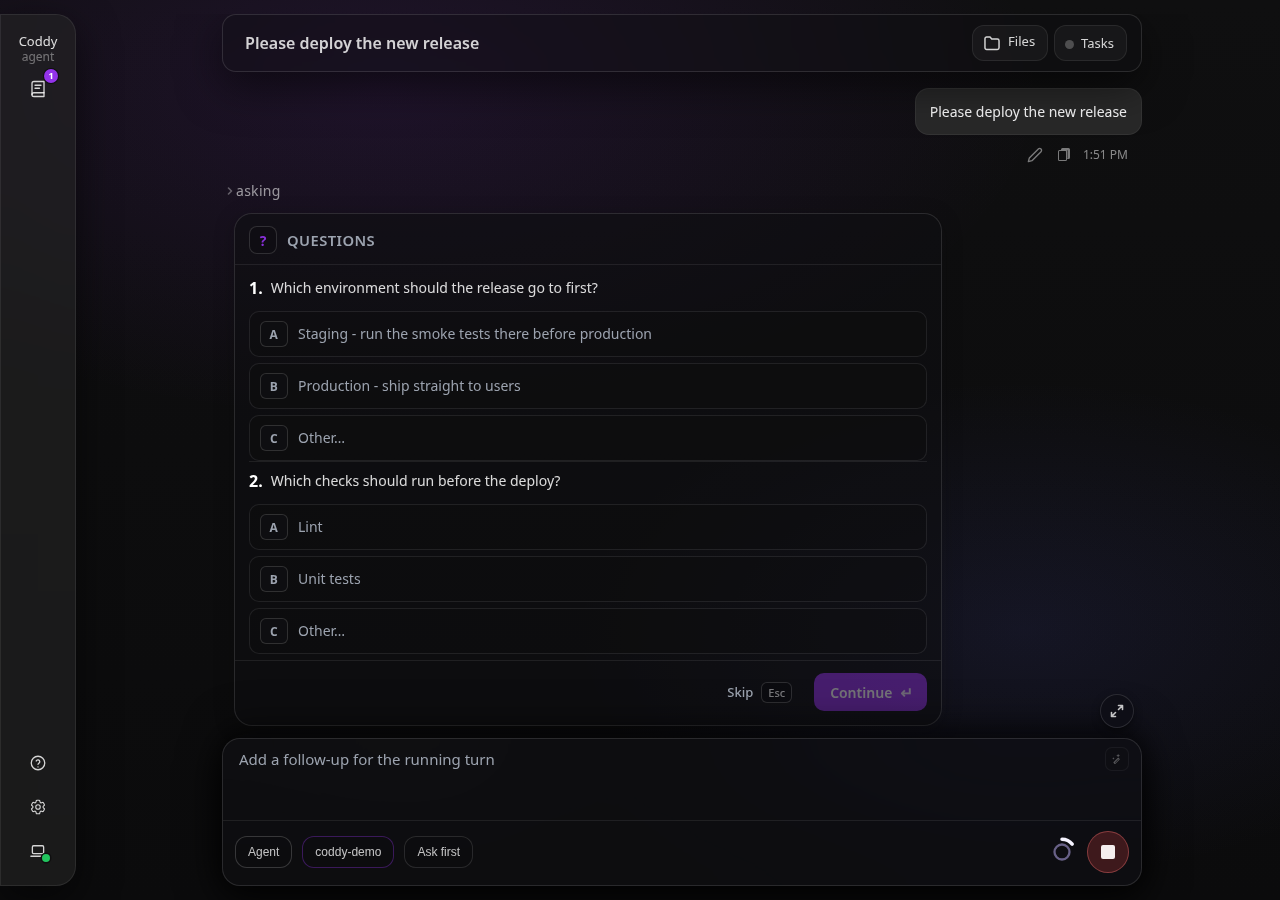
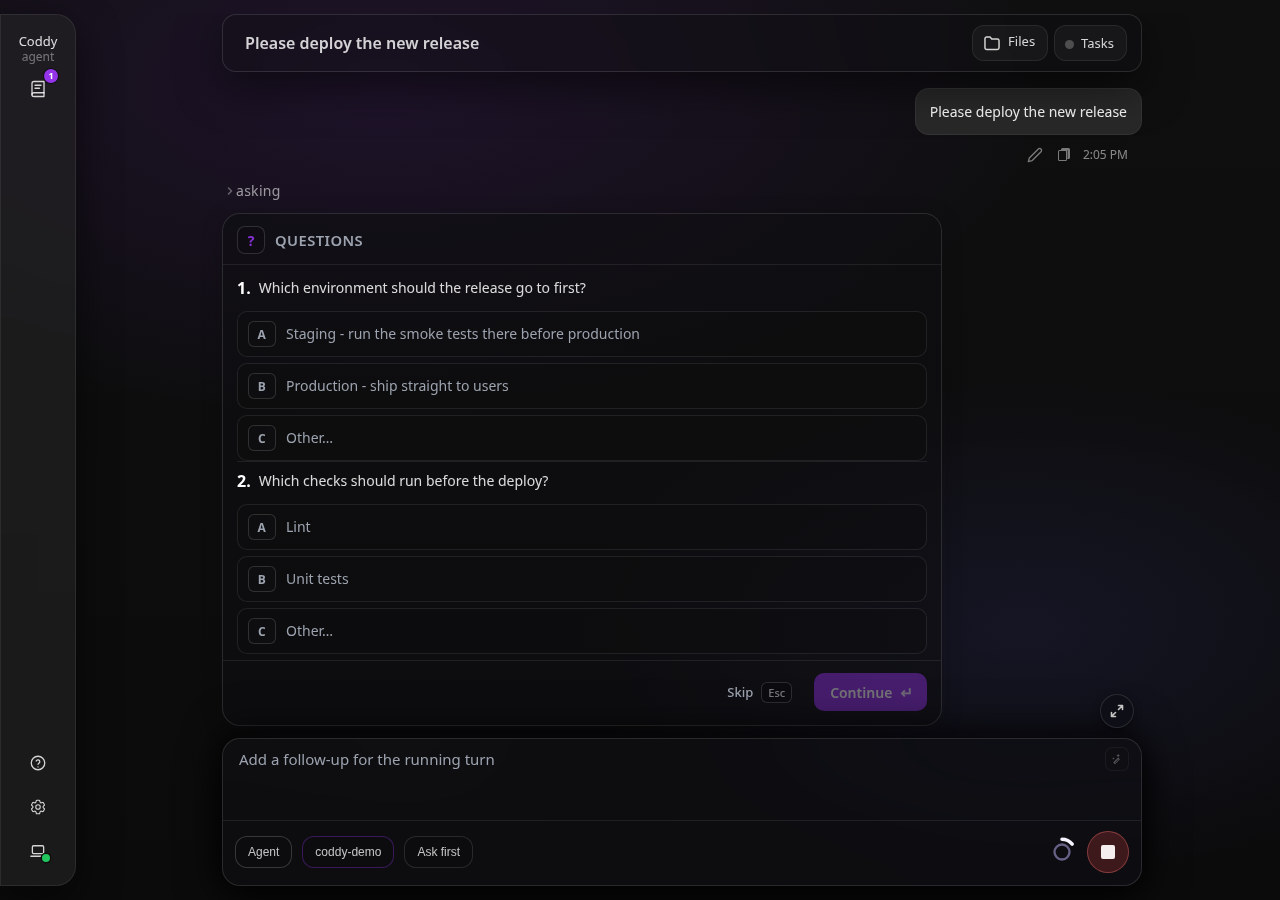
fix(ui): the question card is flush with the column on both sides
The question card's row carried a padding-left of 12px and nothing on
the right, so on a phone the card started 12px in from the composer's
left edge while its right edge met the composer's. The row is now flush
with the transcript column like the permission card's row, and a CSS
test holds both rows to it.

diff --git a/external/ui/src/ui/chat/questionPromptRowCss.test.ts b/external/ui/src/ui/chat/questionPromptRowCss.test.ts
@@ -1,0 +1,42 @@
+import { readFileSync } from "node:fs";
+import { dirname, join } from "node:path";
+import { fileURLToPath } from "node:url";
+import { expect, test } from "vitest";
+
+const cssPath = join(
+  dirname(fileURLToPath(import.meta.url)),
+  "../../styles.css",
+);
+
+function ruleBodies(css: string, selector: string): string[] {
+  const escaped = selector.replace(/[.*+?^${}()|[\]\\]/g, "\\$&");
+  const re = new RegExp(`(?:^|\\n)\\s*${escaped}\\s*\\{([^}]*)\\}`, "g");
+  return [...css.matchAll(re)].map((m) => m[1] ?? "");
+}
+
+// The question card is a prompt in the transcript like the permission card, and
+// both rows are flush with the transcript column: on a phone the card's edges meet
+// the composer's under it on both sides. The question row used to carry a
+// padding-left of its own and no padding on the right, which set the card in from
+// the left edge only.
+test("the question row is flush with the column on both sides, like the permission row", () => {
+  const css = readFileSync(cssPath, "utf8");
+  for (const selector of [".message-row-question", ".message-row-permission"]) {
+    const bodies = ruleBodies(css, selector);
+    expect(bodies.length, selector).toBeGreaterThan(0);
+    for (const body of bodies) {
+      expect(body, selector).not.toMatch(
+        /padding(-left|-right|-inline[a-z-]*)?\s*:/,
+      );
+      expect(body, selector).not.toMatch(
+        /margin(-left|-right|-inline[a-z-]*)\s*:/,
+      );
+      const margin = body.match(/(?:^|;|\s)margin\s*:\s*([^;]+);/);
+      if (margin) {
+        // margin: <top> 0 <bottom> - the sides stay at zero.
+        const parts = margin[1]!.trim().split(/\s+/);
+        expect(parts[1] ?? parts[0], selector).toBe("0");
+      }
+    }
+  }
+});

diff --git a/external/ui/src/styles.css b/external/ui/src/styles.css
@@ -12815,13 +12815,15 @@ html:not([data-theme="light"]) .permission-prompt-btn--session-bypass {
   }
 }
 
+/* Flush with the transcript column on both sides, like .message-row-permission:
+   on a phone the card's edges meet the composer's. A padding-left of its own set
+   the card in from the left edge only (questionPromptRowCss.test.ts). */
 .message-row-question {
-  /*margin: 10px 0 14px;*/
   align-self: stretch;
   width: 100%;
   max-width: 720px;
+  min-width: 0;
   box-sizing: border-box;
-  padding-left: 12px;
 }
 
 .question-prompt-frame {

diff --git a/DESIGN.md b/DESIGN.md
@@ -707,7 +707,7 @@ Tool call history is persisted per session under `tool_calls/` so it can be rest
 
 ### Question card
 
-A waiting **`question_prompt`** (**`QuestionPromptSection.tsx`**) lists every question's options behind their letters and, after them, a row for an answer of the reader's own (**`.question-prompt-row--other`**, an input with the placeholder **Other…** / **Другое…**, testids **`question-other-<n>`** and **`question-other-multi-<n>`**), on single and multiple choice alike. The row follows the question's **`custom`** flag, which is on by default (issue #257): the options a model puts up often miss what the reader means, so only a question that sets **`custom`** to **`false`** - a confirmation whose answer must be one of its options - lists the options alone (**`offersOwnAnswer`** in **`chat/questionTypes.ts`**). A payload without the key offers the row, so a node of an older version, which leaves the key out for a question that never mentioned it, gets it too; the server reads a missing key as true and always writes it (**`acp.QuestionPrompt`**). In a multiple-choice question the typed text joins the options ticked beside it. Tests: **`QuestionPromptSection.test.tsx`**, **`features/web_ui_question_own_answer.feature`**.
+A waiting **`question_prompt`** (**`QuestionPromptSection.tsx`**) lists every question's options behind their letters and, after them, a row for an answer of the reader's own (**`.question-prompt-row--other`**, an input with the placeholder **Other…** / **Другое…**, testids **`question-other-<n>`** and **`question-other-multi-<n>`**), on single and multiple choice alike. The row follows the question's **`custom`** flag, which is on by default (issue #257): the options a model puts up often miss what the reader means, so only a question that sets **`custom`** to **`false`** - a confirmation whose answer must be one of its options - lists the options alone (**`offersOwnAnswer`** in **`chat/questionTypes.ts`**). A payload without the key offers the row, so a node of an older version, which leaves the key out for a question that never mentioned it, gets it too; the server reads a missing key as true and always writes it (**`acp.QuestionPrompt`**). In a multiple-choice question the typed text joins the options ticked beside it. The card's row (**`.message-row-question`**) is flush with the transcript column on both sides, like **`.message-row-permission`**: on a phone the card's edges meet the composer's under it, and the row chevron above stays in its own band. A padding on one side only set the card in from the left edge and not the right (**`questionPromptRowCss.test.ts`**). Tests: **`QuestionPromptSection.test.tsx`**, **`features/web_ui_question_own_answer.feature`**.
 
 ### Answered question card
 

diff --git a/docs/assets/INDEX.md b/docs/assets/INDEX.md
@@ -384,7 +384,7 @@ Generated by `make docs`. "Used by" lists the files that reference the asset.
 | `message-edit-banner-dark-1280.png` | 266 KB | docs/ru/surfaces/web-ui.md, docs/surfaces/web-ui.md |
 | `message-edit-undo-dark-1280.png` | 254 KB | docs/ru/surfaces/web-ui.md, docs/surfaces/web-ui.md |
 | `notifications-setting-dark-1280.png` | 98 KB | docs/ru/surfaces/web-ui.md, docs/surfaces/web-ui.md |
-| `question-card-own-answer-dark-1280.png` | 274 KB | docs/ru/surfaces/web-ui.md, docs/surfaces/web-ui.md |
+| `question-card-own-answer-dark-1280.png` | 273 KB | docs/ru/surfaces/web-ui.md, docs/surfaces/web-ui.md |
 | `shared-file-menu-open-dark-1280.png` | 304 KB | docs/ru/surfaces/web-ui.md, docs/surfaces/web-ui.md |
 | `telegram-mini-app-mode-dark-390.png` | 55 KB | docs/ru/surfaces/web-ui.md, docs/surfaces/web-ui.md |
 | `telegram-mini-app-start-light-390.png` | 91 KB | docs/ru/surfaces/web-ui.md, docs/surfaces/web-ui.md |
